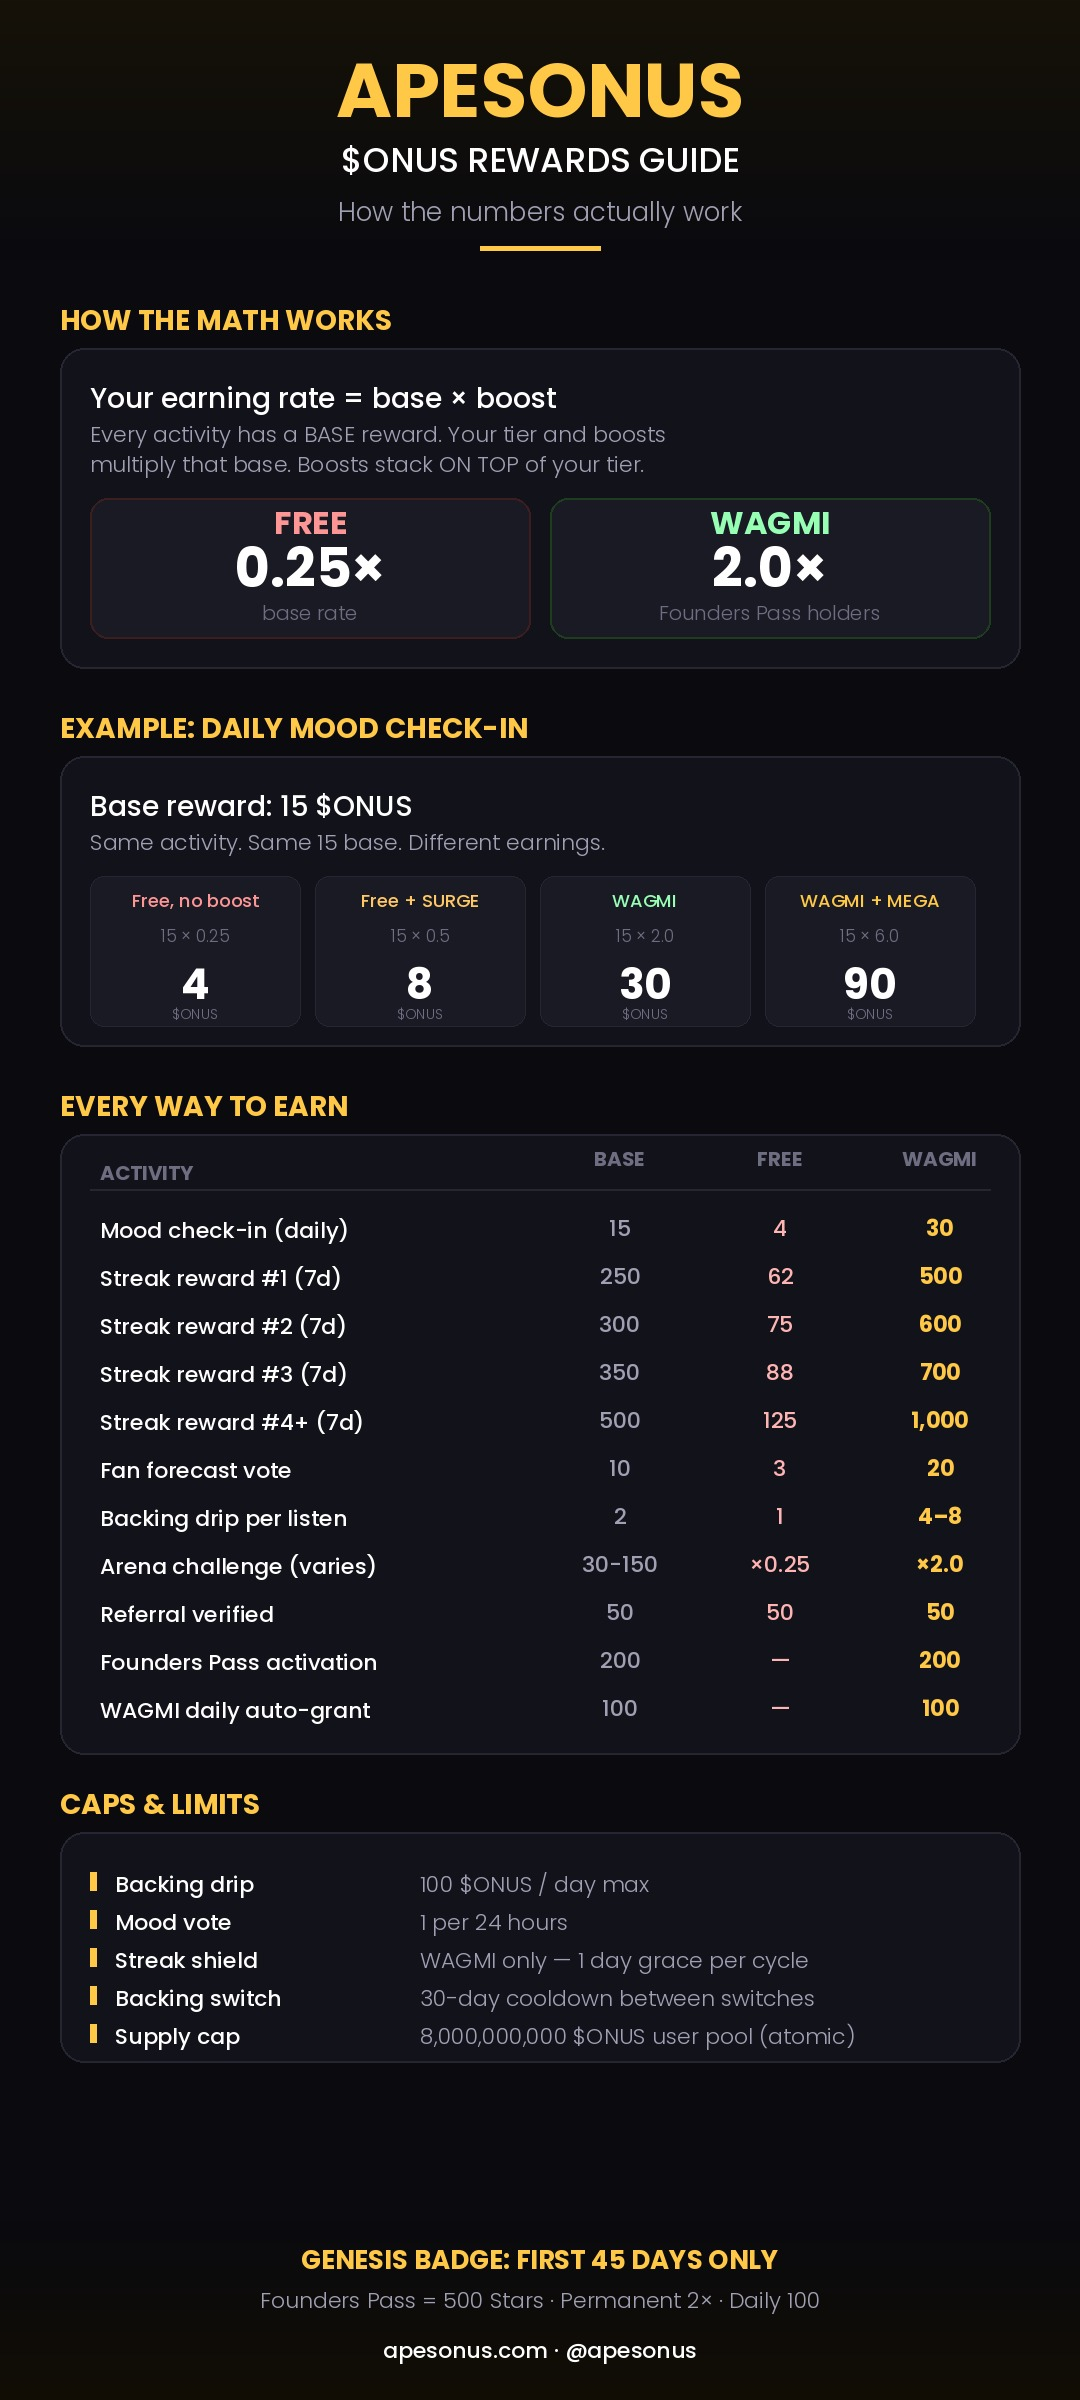
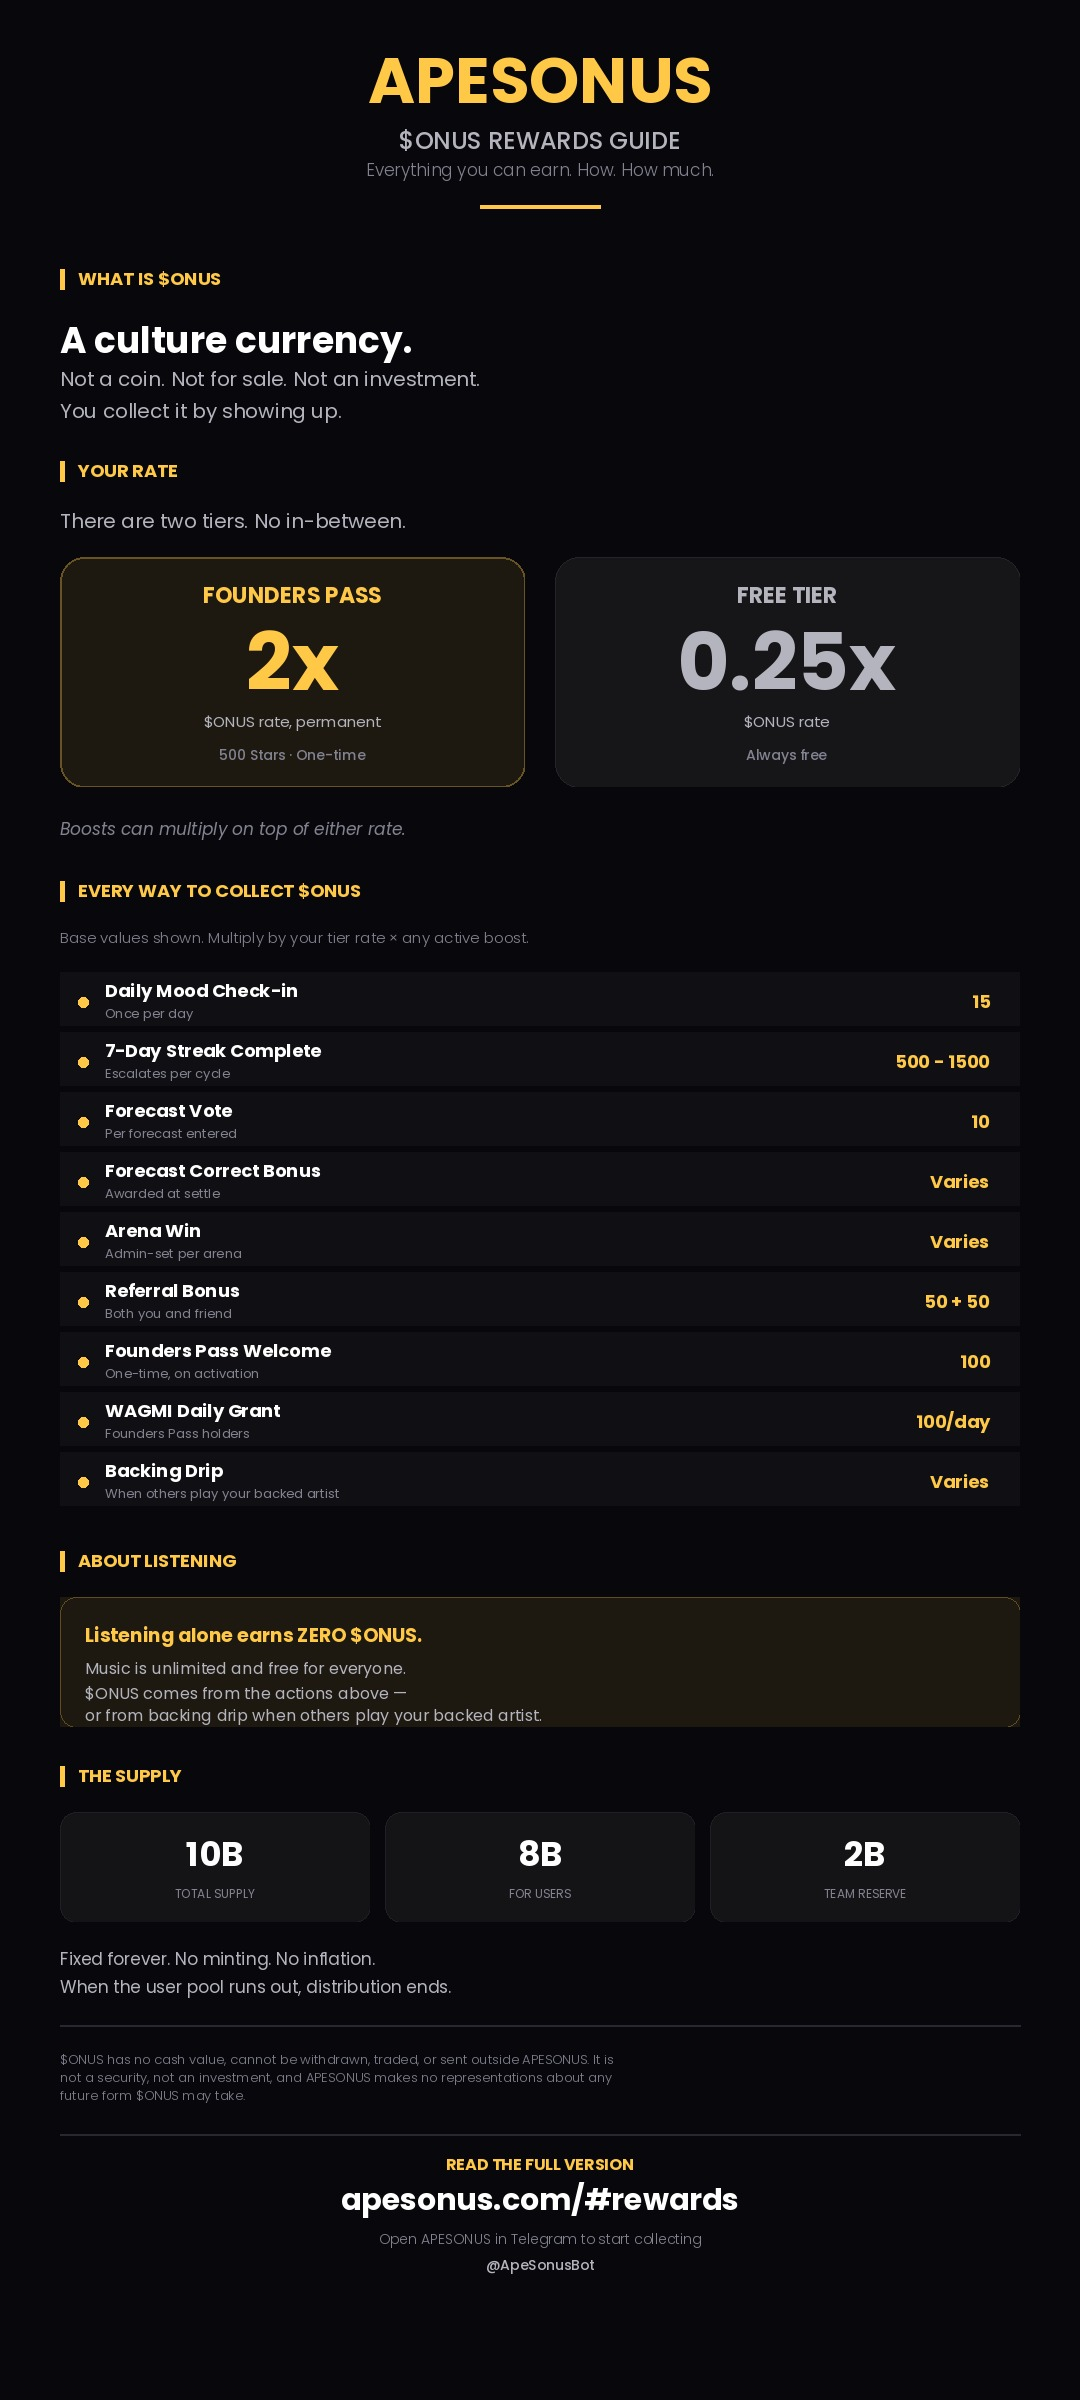
feat: rewards guide v2 + #rewards hash auto-open for direct linking

diff --git a/public/index.html b/public/index.html
@@ -176,9 +176,12 @@ footer{border-top:1px solid var(--w10);padding:50px 0 36px}.footer-inner{display
 <script>
 const obs=new IntersectionObserver(e=>{e.forEach(el=>{if(el.isIntersecting){el.target.classList.add('visible');obs.unobserve(el.target)}})},{threshold:0.12});
 document.querySelectorAll('.reveal').forEach(el=>obs.observe(el));
-function openOverlay(){document.getElementById('rewards-overlay').classList.add('open');document.body.style.overflow='hidden';window.scrollTo(0,0)}
-function closeOverlay(){document.getElementById('rewards-overlay').classList.remove('open');document.body.style.overflow=''}
+function openOverlay(){document.getElementById('rewards-overlay').classList.add('open');document.body.style.overflow='hidden';window.scrollTo(0,0);if(location.hash!=='#rewards')history.replaceState(null,'','#rewards')}
+function closeOverlay(){document.getElementById('rewards-overlay').classList.remove('open');document.body.style.overflow='';if(location.hash==='#rewards')history.replaceState(null,'',location.pathname+location.search)}
 document.addEventListener('keydown',e=>{if(e.key==='Escape')closeOverlay()});
+// Auto-open rewards overlay when arriving via apesonus.com/#rewards (Telegram channel link target)
+if(location.hash==='#rewards'||location.search.includes('rewards')){window.addEventListener('DOMContentLoaded',openOverlay)}
+window.addEventListener('hashchange',()=>{if(location.hash==='#rewards')openOverlay();else closeOverlay()});
 </script>
 </body>
 </html>
